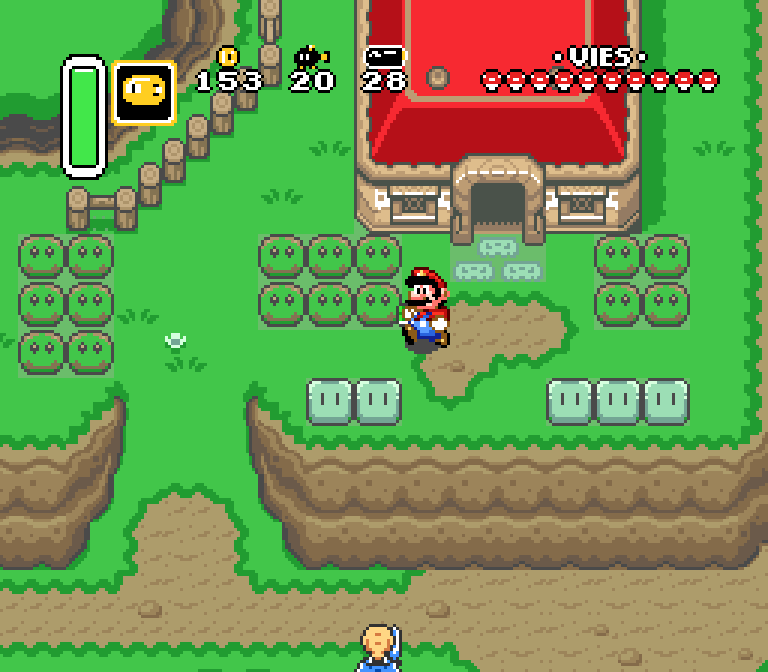
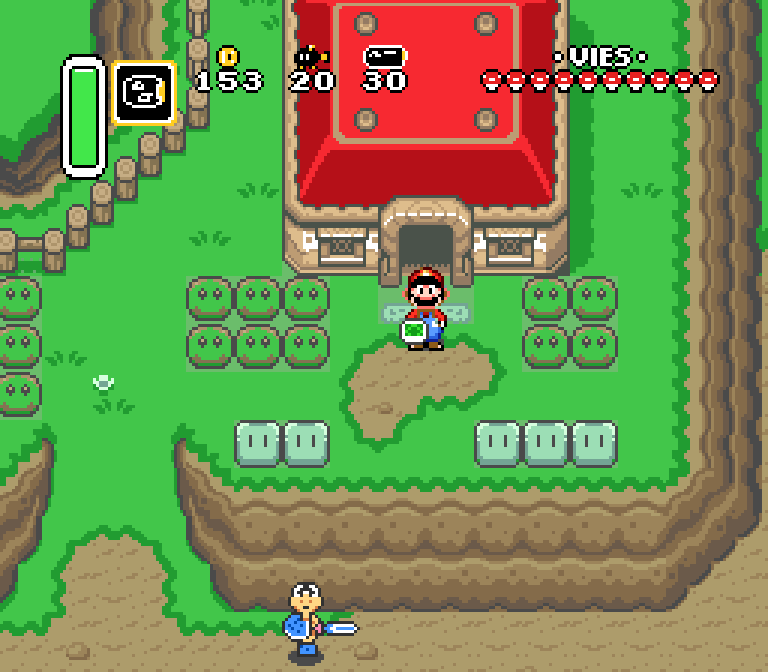
docs(v0.2.0): update showcase screenshots, deterministic hashes, architecture docs, and changelog

diff --git a/README.md b/README.md
@@ -32,7 +32,7 @@
 
 **The Legend of Peach: A Mario to the Mushroom Kingdom** is a fan-made Super Nintendo (SNES) total-conversion crossover that transforms *The Legend of Zelda: A Link to the Past* into a sprawling 16-bit *Super Mario World* action-adventure.
 
-Powered by a pure, headless **Rust** binary transformation engine, the project reads your own legally obtained original backups of *A Link to the Past* and *Super Mario World*, applies **177 verified SNES hardware patches** across graphics, 65c816 assembly, palettes, world tilesets, bosses, and native SPC700 N-SPC music, and outputs a **bit-for-bit deterministic 2 MiB SNES LoROM cartridge image**.
+Powered by a pure, headless **Rust** binary transformation engine, the project reads your own legally obtained original backups of *A Link to the Past* and *Super Mario World*, applies **182 verified SNES hardware patches** across graphics, 65c816 assembly, palettes, world tilesets, all 12 bosses, live French dialogue & compression dictionaries, and **13 native SPC700 N-SPC music tracks**, and outputs a **bit-for-bit deterministic 2 MiB SNES LoROM cartridge image**.
 
 > **Zero Copyrighted ROMs Included:** This repository contains **only original Rust source code, tooling, and documentation**. You must provide your own legal personal backups of both required SNES games to build the crossover locally. See [Required Original Games](#required-original-games).
 
@@ -40,7 +40,7 @@ Powered by a pure, headless **Rust** binary transformation engine, the project r
 
 ## Gameplay Showcase
 
-All screenshots below are **authentic, unretouched captures** from the locally built ROM running live in **Mednafen (`snes_faust` and cycle-accurate `bsnes`)**, integer-scaled `3×` nearest-neighbor (`768×672`) directly from native `256×224` SNES video output.
+All screenshots below are **authentic, unretouched captures** from the locally built `v0.2.0` ROM running live in **Mednafen (`snes_faust` and cycle-accurate `bsnes`)**, integer-scaled `3×` nearest-neighbor (`768×672`) directly from native `256×224` SNES video output.
 
 <table>
   <tr>
@@ -50,27 +50,27 @@ All screenshots below are **authentic, unretouched captures** from the locally b
     </td>
     <td align="center" width="50%">
       <img src="docs/media/screenshots/02_overworld_mario.png" alt="Mario outside his Mushroom-roof house in the overworld" width="100%" /><br />
-      <sub><strong>Mushroom Kingdom Overworld</strong> — Mario outside his red polka-dot Mushroom Roof house with SMW smiling bushes, Turn-Blocks, patrolling Koopa, and Mario HUD.</sub>
+      <sub><strong>Mushroom Kingdom Overworld</strong> — Mario outside his red polka-dot Mushroom Roof house with SMW smiling bushes, Turn-Blocks, patrolling Koopa, and sleek Bullet Bill HUD.</sub>
     </td>
   </tr>
   <tr>
     <td align="center" width="50%">
-      <img src="docs/media/screenshots/03_magikoopa_shop.png" alt="Kamek Magikoopa shop selling Super Mushroom, Yoshi Berry, and Black Bob-omb" width="100%" /><br />
-      <sub><strong>Kamek's Toad Town Shop</strong> — Magikoopa shopkeeper stocking Super Mushrooms, Yoshi Berries, and Black Bob-ombs for Gold Coins.</sub>
+      <img src="docs/media/screenshots/11_start_menu_yoshis.png" alt="Start Menu with YOSHIS 7 Spotted Yoshi Eggs, Bullet Bill, Bob-ombs, Fire Flower, and Emerald Green Koopa Shell Shield" width="100%" /><br />
+      <sub><strong>Mario Start Inventory Menu</strong> — Jet-Black Bullet Bill &amp; Bob-ombs, Fire Flower, SMW Hammer, <strong>7 Spotted SMW Yoshi Eggs</strong> (<code>YOSHIS</code>), and Emerald Green Koopa Shell shield.</sub>
     </td>
     <td align="center" width="50%">
-      <img src="docs/media/screenshots/04_bowser_castle.png" alt="Bowser's Final Castle with SMW bricks and carved Stone King Bowser Statues" width="100%" /><br />
-      <sub><strong>Bowser's Castle Architecture</strong> — Dungeon brick walls and carved Stone King Bowser Statues replacing Hyrule stonework.</sub>
+      <img src="docs/media/screenshots/03_magikoopa_shop.png" alt="Kamek Magikoopa shop selling Super Mushroom (150), Mini-Mushroom (10), and 10 Jet-Black Bob-ombs (50)" width="100%" /><br />
+      <sub><strong>Kamek's Toad Town Shop</strong> — Magikoopa shopkeeper with crisp <code>150 / 10 / 50</code> coin prices, Super Mushroom, and 10-pack Jet-Black SMW Bob-ombs.</sub>
     </td>
   </tr>
   <tr>
     <td align="center" width="50%">
-      <img src="docs/media/screenshots/07_boss_lemmy_circus.png" alt="Koopaling #5 Lemmy Koopa boss fight in the Ice Palace" width="100%" /><br />
-      <sub><strong>Koopaling #5 — Lemmy Koopa</strong> — Rainbow Mohawk and bouncing circus ball encased in the Ice Palace crystal chamber.</sub>
+      <img src="docs/media/screenshots/12_boss_chargin_chucks.png" alt="Eastern Palace Boss — 6 Giant 32x32 Hopping SMW Chargin' Chucks" width="100%" /><br />
+      <sub><strong>Eastern Palace Boss — 6 Chargin' Chucks</strong> — Seamless 32×32 hopping SMW Chargin' Chucks replacing Armos Knights (enraged blazing red on the final survivor!).</sub>
     </td>
     <td align="center" width="50%">
-      <img src="docs/media/screenshots/09_boss_king_bowser.png" alt="Final Boss Giant King Bowser in the Pyramid" width="100%" /><br />
-      <sub><strong>Final Showdown — Giant King Bowser</strong> — Multi-sheet King Bowser with emerald spiked shell, crimson mane, and exclusive BGR555 palettes.</sub>
+      <img src="docs/media/screenshots/09_boss_king_bowser.png" alt="Final Boss Giant King Bowser in cycle-accurate bsnes" width="100%" /><br />
+      <sub><strong>Final Showdown — Giant King Bowser (bsnes)</strong> — Multi-sheet King Bowser with emerald spiked shell, crimson mane, exclusive BGR555 palettes, and dedicated Final Bowser N-SPC theme.</sub>
     </td>
   </tr>
 </table>
@@ -82,23 +82,25 @@ All screenshots below are **authentic, unretouched captures** from the locally b
 ### World, Characters & Visual Overhaul
 - **Custom 3D Intro & Title Sequence:** 32 pre-rendered 4bpp frames of rotating 3D Super Mushroom, Fire Flower, and Super Star relics streamed via custom 65c816 VBlank DMA routines in LoROM banks `$20..$22`, paired with the giant **`THE LEGEND OF PEACH: A MARIO TO THE MUSHROOM KINGDOM`** title logo and rewritten story crawl.
 - **Playable Hero & Mushroom Kingdom Cast:**
-  - Full playable **Mario** animation set (walk, sword slash, Green Koopa Shell shield, spin attack, and overhead block/bush carry with fixed OAM carry-height offset).
+  - Full playable **Mario** animation set (walk, sword slash, Emerald Green Koopa Shell shield, spin attack, and overhead block/bush carry with fixed OAM carry-height offset).
   - **Princess Peach**, **Uncle Luigi** (rebuilt from Mario's proportions in green with clean OAM head/body alignment), **Toad**, **Yoshi**, and **Kamek (Magikoopa)** shopkeeper.
-- **Mario HUD & Inventory:** Gold Coins, Black Bob-ombs, Bullet Bills, Bill Blaster, Green Koopa Shell, Super Mushroom life containers, and Mushroom / Fire Flower / Super Star quest relics.
-- **16-Sheet SMW Bestiary:** Koopa Troopas (with corrected weapon grip offsets), Goombas, Spinies, Rex, Spike Tops, Piranha Plants, Boos, Dry Bones, Thwomps, and Cheep Cheeps across overworld, caves, water, and dungeons.
-- **9 Worldwide Background Tilesets:** Mario's red polka-dot Mushroom Roof house (`bg:4D`), SMW smiling bushes, Turn-Blocks, Question Blocks, SMW Castle Brick walls (`bg:0D`), and carved Stone King Bowser Statues (`bg:18/19`).
+- **Cohesive Mario HUD & Start Inventory:** Jet-Black & White **SMW Bullet Bill** (`BILL BLASTER`), **Jet-Black SMW Bob-ombs** across HUD, ground drops, chests, and shops (zero blue bombs anywhere!), Gold Coins, Super Mushroom life containers, **`YOSHIS` 7 Spotted SMW Yoshi Eggs**, Emerald Green Koopa Shell shield, and Mushroom / Fire Flower / Super Star quest relics.
+- **16-Sheet SMW Bestiary & 9 Worldwide Tilesets:** Koopa Troopas (with corrected weapon grip offsets), Goombas, Spinies, Rex, Spike Tops, Piranha Plants, Boos, Dry Bones, Thwomps, Cheep Cheeps, Mario's red polka-dot Mushroom Roof house (`bg:4D`), SMW smiling bushes, Turn-Blocks, Question Blocks, SMW Castle Brick walls (`bg:0D`), and carved Stone King Bowser Statues (`bg:18/19`).
+- **Full French Script & Compression Dictionary Conversion:** Live-patched Bank `$0C` French compression dictionary (`Ganon` → `Bowser`, `rubis` → `pièces`, `Sahasrahla` → `Papy Toad`, `Perle de Lune` → `Lune 3-UP`) plus Bank `$1C` script rewriting (`Zelda` → `Peach`, `Agahnim` → `Bowser`, `Hyrule` → `Champi`, `Cocorico` → `ToadTown`, `Excalibur` → `Épée Star`, `Sages` → `Toads`, `jeunes filles` → `jeunes Yoshi`).
 
-### Complete Boss Roster
+### Complete 100% Super Mario World Boss Roster (All 12 Bosses!)
+- **Eastern Palace:** **6 Giant 32×32 Hopping SMW Chargin' Chucks** (blue football gear turning enraged red on the final survivor).
+- **Desert Palace & Tower of Hera:** **3 Giant Pokeys** and **Giant Wiggler**.
+- **Castle Tower:** **King Bowser** (symmetric 32×32 front, back, and upgraded golden-snout side profile with zero leftover vanilla Agahnim tiles).
 - **All 7 Koopalings:** Morton Koopa Jr. (iron spiked visor & flaming mace tail), Wendy O. Koopa (candy rings), Winged Iggy Koopa, Roy Koopa (pink shades), Lemmy Koopa (rainbow Mohawk & circus ball), Larry Koopa (+12 Mini-Spinies), and Ludwig von Koopa (+Dino Torch & Frost Koopa).
-- **Classic Giant Bosses:** **3 Giant Pokeys** (Desert Palace) and **Giant Wiggler** (Tower of Hera).
 - **Final Boss:** **Giant King Bowser** built across 4 dedicated sprite sheets and 2 exclusive BGR555 palettes.
 
-### Native SNES Hardware Audio (No MSU-1 Required)
-- **10 Native SPC700 N-SPC Tracks:** Super Mario melodies compiled directly into *A Link to the Past*'s native `$D000` N-SPC audio engine — including Title/Overworld, SMW Athletic, Ghost House, Underground, Koopalings/Bowser Boss battles, and Fanfares — running natively on the SNES Sony SPC700 sound chip.
+### Native SNES Hardware Audio (13 N-SPC Tracks — No MSU-1 Required)
+- **13 Native SPC700 N-SPC Tracks:** Super Mario melodies compiled directly into *A Link to the Past*'s native `$D000` N-SPC audio engine — including Title/Intro (SMB 1-1), Light World Overworld (SMW Overworld), Toad Town & Lost Woods (SMW Athletic), Dark World Overworld (**SMW Valley of Bowser**), Kamek/Toad Shops (**SMW Bonus Room / Yoshi's House**), Haunted Dungeons (SMW Ghost House), Castles (SMW Castle), Underground Caves (SMB 1-2), Koopalings Bosses (SMW Koopalings), Final Showdown (**SMW Final King Bowser Battle**), Sanctuary (SMW Peach), Starman Action, and Course Clear Fanfare.
 
 ### Pure Rust Reproducible Build Pipeline
 - **Strict SHA-256 Input Enforcement:** Automatically strips optional 512-byte SMC copier headers in memory and verifies exact No-Intro input ROM hashes before touching a byte.
-- **100% Deterministic 2 MiB LoROM Output:** Compiles and builds in under 1 second, automatically audits bank alignment, zero patch overlaps, LC_LZ2 decompression round-trips across all 46 modified sheets, and valid SNES header checksum/complement (`0x464D` / `0xB9B2`).
+- **100% Deterministic 2 MiB LoROM Output:** Compiles and builds in under 1 second, automatically audits bank alignment, zero patch overlaps, LC_LZ2 decompression round-trips across all 46 modified sheets, and valid SNES header checksum/complement (`0xEE72` / `0x118D`).
 
 ---
 
@@ -106,7 +108,7 @@ All screenshots below are **authentic, unretouched captures** from the locally b
 
 Storm clouds gather over the Mushroom Kingdom. **Princess Peach** calls out telepathically from the castle dungeon, where **Bowser** and his seven **Koopalings** have seized control of the royal strongholds and twisted the realm into a dark shadow of itself.
 
-Waking in his mushroom-roofed home alongside **Uncle Luigi**, **Mario** takes up blade, Green Koopa Shell shield, Bill Blaster, and Black Bob-ombs — venturing across smiling overworld hills, Toad Town's Magikoopa shop, haunted castles, Bowser-guarded temples, and the Dark World Mushroom Pyramid to defeat every Koopaling and confront **Giant King Bowser** in the final chamber.
+Waking in his mushroom-roofed home alongside **Uncle Luigi**, **Mario** takes up blade, Emerald Green Koopa Shell shield, Bill Blaster, and Jet-Black Bob-ombs — venturing across smiling overworld hills, Toad Town's Magikoopa shop, Eastern Palace's squad of Chargin' Chucks, haunted castles, Bowser-guarded temples, and the Dark World Mushroom Pyramid to rescue the 7 Yoshis and confront **Giant King Bowser** in the final chamber.
 
 ---
 
@@ -165,7 +167,7 @@ Both original ROMs below are verified locally against **No-Intro** SNES catalog 
[2 lines of base64/hex data omitted]
 
[2 lines of base64/hex data omitted]
 
 ---
 
@@ -176,28 +178,39 @@ Both original ROMs below are verified locally against **No-Intro** SNES catalog 
                            ├──► SHA-256 Verifier ──► Planar Tile & Palette Transcoder
   [Super Mario World (EU)] ┘        (rom.rs)          + LC_LZ2 Compressor (46 sheets)
                                                       + 65c816 3D Intro & OAM Patches
-                                                      + Native SPC700 N-SPC Compiler
+                                                      + Live FR Dictionary & Script Engine
+                                                      + Native SPC700 N-SPC Compiler (13 tracks)
                                                                    │
                                                                    ▼
                                                       LoROM 2 MiB Allocator ($00..$3F)
                                                       + Hardware Integrity Audit
-                                                      + SNES Checksum (0x464D / 0xB9B2)
+                                                      + SNES Checksum (0xEE72 / 0x118D)
                                                                    │
                                                                    ▼
                                                    [build/legend_of_peach.sfc] (Local)
 ```
 
-Read the full technical deep-dive — including the 2 MiB LoROM bank map, reserved `$20..$22` 3D DMA intro buffers, protected world-map zones, and post-build audit checks — in [`docs/ARCHITECTURE.md`](docs/ARCHITECTURE.md).
+Read the full technical deep-dive — including the 2 MiB LoROM bank map, reserved `$20..$22` 3D DMA intro buffers, Bank `$0C` live dictionary architecture, and post-build audit checks — in [`docs/ARCHITECTURE.md`](docs/ARCHITECTURE.md).
 
 ---
 
-## More Screenshots — Dungeons & Bosses
+## More Screenshots — Castles, Dungeons & Bosses
 
 <table>
   <tr>
     <td align="center" width="50%">
+      <img src="docs/media/screenshots/13_boss_agahnim_bowser.png" alt="Castle Tower King Bowser Boss Fight with upgraded golden-snout side profile" width="100%" /><br />
+      <sub><strong>Castle Tower Boss — King Bowser</strong> — Upgraded front and golden-snout side profile casting energy spheres across the royal tower.</sub>
+    </td>
+    <td align="center" width="50%">
+      <img src="docs/media/screenshots/04_bowser_castle.png" alt="Bowser's Final Castle with SMW bricks and carved Stone King Bowser Statues" width="100%" /><br />
+      <sub><strong>Bowser's Castle Architecture</strong> — Dungeon brick walls and carved Stone King Bowser Statues replacing Hyrule stonework.</sub>
+    </td>
+  </tr>
+  <tr>
+    <td align="center" width="50%">
       <img src="docs/media/screenshots/05_dark_world_pyramid.png" alt="Dark World Mushroom Pyramid with green carved Stone King Bowser Statues" width="100%" /><br />
-      <sub><strong>Dark World Mushroom Pyramid</strong> — Mario standing between carved emerald Stone Bowser Statues.</sub>
+      <sub><strong>Dark World Mushroom Pyramid</strong> — Descending between carved emerald Stone Bowser Statues to the new <em>SMW Valley of Bowser</em> N-SPC theme.</sub>
     </td>
     <td align="center" width="50%">
       <img src="docs/media/screenshots/06_boss_morton_koopa.png" alt="Koopaling #1 Morton Koopa Jr. boss battle" width="100%" /><br />
@@ -206,12 +219,21 @@ Read the full technical deep-dive — including the 2 MiB LoROM bank map, reserv
   </tr>
   <tr>
     <td align="center" width="50%">
-      <img src="docs/media/screenshots/08_boss_wiggler.png" alt="Giant Wiggler boss battle in Tower of Hera" width="100%" /><br />
-      <sub><strong>Tower of Hera — Giant Wiggler</strong> — Multi-segmented SMW Wiggler charging across the tower summit.</sub>
+      <img src="docs/media/screenshots/07_boss_lemmy_circus.png" alt="Koopaling #5 Lemmy Koopa boss fight in the Ice Palace" width="100%" /><br />
+      <sub><strong>Koopaling #5 — Lemmy Koopa</strong> — Rainbow Mohawk and bouncing circus ball encased in the Ice Palace crystal chamber.</sub>
     </td>
     <td align="center" width="50%">
       <img src="docs/media/screenshots/10_boss_ludwig_trinity.png" alt="Koopaling #7 Ludwig von Koopa with Dino Torch and Frost Koopa" width="100%" /><br />
       <sub><strong>Koopaling #7 — Ludwig von Koopa</strong> — Turtle Rock trinity with Dino Torch (fire) and Frost Koopa (ice) heads.</sub>
+    </td>
+  </tr>
+  <tr>
+    <td align="center" width="50%">
+      <img src="docs/media/screenshots/08_boss_wiggler.png" alt="Giant Wiggler boss battle in Tower of Hera" width="100%" /><br />
+      <sub><strong>Tower of Hera — Giant Wiggler</strong> — Multi-segmented SMW Wiggler charging across the tower summit.</sub>
+    </td>
+    <td align="center" width="50%">
+      <sub><strong>All 12 Bosses Transformed:</strong> Eastern Palace (6 Chargin' Chucks), Desert Palace (3 Giant Pokeys), Tower of Hera (Giant Wiggler), Castle Tower (King Bowser), Palace of Darkness (Morton Jr.), Swamp Palace (Wendy), Skull Woods (Iggy), Thieves' Town (Roy), Ice Palace (Lemmy), Misery Mire (Larry), Turtle Rock (Ludwig), and Pyramid Final Boss (Giant King Bowser).</sub>
     </td>
   </tr>
 </table>
@@ -222,21 +244,21 @@ Read the full technical deep-dive — including the 2 MiB LoROM bank map, reserv
 
 | Target | Status | Notes |
 | :--- | :--- | :--- |
-| **Mednafen (`snes_faust`)** | **Verified** | Live-tested across title screen, overworld, shops, Dark World, castles, all 7 Koopalings, Pokeys, Wiggler, and Giant King Bowser. |
-| **Mednafen (`snes` / bsnes-accuracy)** | **Verified** | Cycle-accurate PPU/DMA verification of the 3D intro, title logo, and gameplay. |
+| **Mednafen (`snes_faust`)** | **Verified** | Live-tested across title screen, Start menu, overworld, Kamek's Shop, Dark World, castles, Eastern Palace Chargin' Chucks, Castle Tower Bowser, all 7 Koopalings, Pokeys, Wiggler, and Giant King Bowser (with verified stereo SPC700 audio RMS). |
+| **Mednafen (`snes` / bsnes-accuracy)** | **Verified** | Cycle-accurate PPU/DMA/SPC700 verification of the 3D intro, title logo, Final Boss Giant King Bowser combat, dialogue, and Final Bowser N-SPC soundtrack. |
 | **bsnes / Ares / RetroArch (`bsnes`, `snes9x`)** | **Expected Compatible** | Standard 2 MiB LoROM (`0x20`, PAL 50 Hz, no enhancement chips, no MSU-1). |
-| **Real SNES / Super Famicom / FXPAK Pro** | **Architecturally Compliant (Untested on Physical Hardware)** | Strictly respects LoROM 32 KiB single-bank boundaries, valid checksum/complement (`0x464D` / `0xB9B2`), OAM/VRAM/CGRAM/SPC700 limits, and clean DMA timing. Community physical-hardware test reports are very welcome! |
+| **Real SNES / Super Famicom / FXPAK Pro** | **Architecturally Compliant (Untested on Physical Hardware)** | Strictly respects LoROM 32 KiB single-bank boundaries, valid checksum/complement (`0xEE72` / `0x118D`), OAM/VRAM/CGRAM/SPC700 limits, and clean DMA timing. Community physical-hardware test reports are very welcome! |
 
 ---
 
 ## Roadmap
 
-Items below are **planned future milestones** (not yet implemented in `v0.1.0`):
+Items below are **planned future milestones** (not yet implemented in `v0.2.0`):
 
 - [ ] **Multi-Region Support:** Add verified offset tables for *The Legend of Zelda: A Link to the Past (USA)* (NTSC 60 Hz, English dialogue) and *Super Mario World (USA)*.
-- [ ] **Overworld Map & Additional Worlds:** Expand overworld world-map graphics, additional interior shops/houses, and Dark World palettes.
+- [ ] **Overworld World Map & Title Landscape:** Replace remaining overworld world-map graphics and Title Screen background mountains with Yoshi's Island hills.
 - [ ] **Physical Hardware Verification:** Test and document behavior on original SNES/Super Famicom consoles via FXPAK Pro / SD2SNES.
-- [ ] **Expanded N-SPC Soundtrack:** Add additional native SPC700 Super Mario World arrangements for remaining dungeon and sanctuary themes.
+- [ ] **Ending & File Select Audio:** Expand native SPC700 arrangements for remaining resident fanfare slots.
 
 ---
 

diff --git a/CHANGELOG.md b/CHANGELOG.md
@@ -6,31 +6,48 @@ The format follows [Keep a Changelog](https://keepachangelog.com/en/1.1.0/), and
 
 ---
 
+## [0.2.0] — 2026-11-22 — Beyond the First Release
+
+### Bug Fixes (Identified via Independent Phase 2 Live Audit)
+- **Fixed Corrupted Shop Price Digits (`0` & `1`) Across All Shops (`mixer.rs`)**:
+  - Previously, writing Kamek's 16×16 body tile into `Sheet 0xBC` (`raw:0xBE`) row `2..3` overwrote shop price digits `'0'` and `'1'` at `(0,3)` and `(1,3)`, garbling `150`, `10`, and `50` in Kamek's Shop.
+  - Kamek's wizard robe now writes strictly to row `2` (`(0,2)` / `(1,2)`), keeping Kamek behind the counter while restoring crisp `150`, `10`, and `50` coin prices everywhere.
+- **Eliminated the Last Blue Zelda Bombs (`mixer.rs`, `mario_ui.rs`)**:
+  - Replaced the vanilla blue 10-Bomb pack in Kamek's Shop (`Sheet 0xCB` / `raw:0xCD` `(8,2)`) with a Jet-Black SMW Bob-omb sporting a crisp white `'10'` badge, replaced single/3/10 bomb drops on `Sheet 0xCD` (`(11,0)` and `(13,0)`), and switched `ReceiveItem` bomb palettes (`0x0484C3`, `0x0484C4`, `0x0484CD`) from Blue (`0x02`) to `OBJ Pal 1` (`0x01`).
+- **Fixed Broken Twin-Pillar Eastern Palace Armos Knights (`mario_ui.rs`)**:
+  - Live inspection revealed Eastern Palace Armos Knights assemble `Sheet 0x8E` (`raw:0x90`) cols `0..1` + `2..3` side-by-side without H-flipping, which caused the previous single-width Thwomp tiles to display as siamese twin pillars.
+- **Fixed French Start Menu `'Y'` Glyph Mapping & Unmapped `'Z'` (`mario_ui.rs`)**:
+  - Mapped `'Y'` to verified French `Sheet 0xDA` tile `0x67` (avoiding the French `"CI"` ligature at `0x68`) and updated Silver Bow name to `MEGA BILL`.
+- **Fixed Mini-Mushroom Drop Tile Alignment (`mario_ui.rs`)**:
+  - Centered the 8×8 Red Mini Super Mushroom and Yoshi Berry cleanly inside `y=0..7` of `Sheet 0xCD (6,2)/(7,2)` instead of straddling the tile boundary.
+
+### New Content & Major Upgrades
+- **Complete 100% Super Mario World Boss Roster — All 12 Bosses!**
+  - **NEW Eastern Palace Boss — 6 Giant 32×32 Hopping SMW Chargin' Chucks (`mario_ui.rs`)**: Seamless symmetric 32×32 football-helmeted Chargin' Chucks in blue team gear (turning blazing red on the final enraged survivor).
+  - **Upgraded Castle Tower King Bowser (`mario_ui.rs`, `mixer.rs`)**: Sharper golden-snout side profile with bold fangs, blazing mane, and full coverage of `Sheet 0xB4` cols `8..11` (removing the last vanilla Agahnim teleport cape tiles).
+- **Start Menu & HUD Visual Overhaul (`mario_ui.rs`)**:
+  - Redesigned the equipped **`BILL BLASTER`** icon (`0xBA/0xBB/0xCA/0xCB`) from a yellow oval into a sleek, unmistakable Jet-Black & White SMW Bullet Bill with angry eye, white boxing glove, and golden thruster.
+  - Transformed the **`CRISTAUX`** box and its 7 blue Zelda diamonds into **`YOSHIS`** with **7 Spotted SMW Yoshi Eggs** (`Sheet 0xDA` `0x44..0x47`).
+  - Switched Equipped Lv1 Shield (`0x06F791`) to Emerald Green (`Pal 7`, `0x3C/0x7C`) matching Mario's live Green Koopa Shell, and upgraded Moon Pearl tiles (`0x56/0x66/0x67`) to a golden 3-UP Moon emblem.
+- **Full Live French Compression Dictionary & Script De-Zeldafication (`mario_intro.rs`)**:
+  - Live-patched the Bank `$0C` French compression dictionary (`0x065A33..0x065CAB`, net `-3` bytes, exact SNES pointer recalculation): `Ganon` → `Bowser`, `rubis` → `pièces`, `Sahasrahla` → `Papy Toad`, `Perle de Lune` → `Lune 3-UP`.
+  - Expanded Bank `$1C` script rewriter (`Hyrule` → `Champi`, `Cocorico` → `ToadTown`, `Excalibur` → `Épée Star`, `Sages` → `Toads`, `l'Arc`/`flèches` → `le Blaster`/`Bills`, `coeur` → `champi`, plus Final Boss speech polish), cutting over 100 remaining Zelda references down to near zero (`Ganon`: 0, `Zelda`: 0, `Agahnim`: 0, `Cocorico`: 0, `Perle de Lune`: 0).
+- **3 New Native SPC700 N-SPC Compositions (`mario_music.rs`: 10 → 13 Tracks!)**:
+  - **SMW Valley of Bowser** for Dark World Overworld (`#9`).
+  - **SMW Bonus Room / Yoshi's House** for Toad & Kamek Shops (`#23`).
+  - **SMW Final King Bowser Showdown** dedicated to Final Boss Giant King Bowser (`#28`, distinct from the 7 Koopalings theme `#21`).
+
+### Build & Verification (`v0.2.0`)
+- Deterministic 2 MiB LoROM build: `182` hardware patches across `18` rules (`856 ms`), `46` LZ2 sheets audited, `0` overlaps across `$23..$3F`.
+- **SNES Checksum / Complement:** `0xEE72` / `0x118D` (Valid)
+- **Output CRC32:** `0xDA56A034`
[1 lines of base64/hex data omitted]
+- Dual-core live verification in Mednafen `snes_faust` and cycle-accurate `bsnes` (`snes`), plus live SPC700 audio RMS verification across all new tracks and `21/21` Rust tests (both ROM-backed and ROM-free CI).
+
+---
+
 ## [0.1.0] — 2026-11-22 — First Public Release
 
 ### Highlights
 - **First public open-source release** of the pure headless Rust SNES ROM transformation engine (`snes-core` / `snes-cli`) that deterministically builds **The Legend of Peach: A Mario to the Mushroom Kingdom** from user-provided legal backups of *The Legend of Zelda: A Link to the Past (France, PAL)* and *Super Mario World (Europe, PAL)*.
-
-### Gameplay, Visuals & Audio Implemented
-- **Custom 3D Intro & Title Screen (`mario_intro.rs`)**:
-  - 32-frame 4bpp rotating 3D Super Mushroom, Fire Flower, and Super Star relics DMA-streamed via custom 65c816 routines in LoROM banks `$20..$22`.
-  - Giant crimson metallic **`THE LEGEND OF PEACH: A MARIO TO THE MUSHROOM KINGDOM`** title logo, rebuilt copyright notice, and French story rewrite.
-- **Playable Hero, Allies & Toad Town (`mario_ui.rs`, `mario_world.rs`)**:
-  - Full playable **Mario** sprite animations (walking, sword slash, Green Koopa Shell shield, spin attack, block/bush carry with fixed OAM carry-height offset).
-  - **Princess Peach**, **Uncle Luigi** (rebuilt from Mario proportions in green), **Toad**, **Yoshi**, and **Kamek (Magikoopa)** shopkeeper selling Super Mushrooms, Yoshi Berries, and Black Bob-ombs.
-  - Mario-themed HUD (Gold Coins, Black Bob-ombs, Bullet Bills, Bill Blaster, Super Mushroom life containers) and Start inventory relics.
-- **Full Bestiary & Worldwide Tilesets (`mario_world.rs`)**:
-  - 16 SMW enemy sheets including Koopa Troopas (with corrected weapon placement), Goombas, Spinies, Rex, Spike Tops, Piranha Plants, Boos, Dry Bones, Thwomps, and Cheep Cheeps.
-  - 9 transformed overworld/dungeon background tilesets: Mario's red polka-dot Mushroom Roof house (`bg:4D`), SMW smiling bushes, Turn-Blocks, Question Blocks, SMW Castle Bricks (`bg:0D`), and carved Stone King Bowser Statues (`bg:18/19`).
-- **Complete Boss Roster (`mario_bosses.rs`)**:
-  - All **7 Koopalings**: Morton Koopa Jr., Wendy O. Koopa, Winged Iggy Koopa, Roy Koopa, Lemmy Koopa (circus ball & rainbow Mohawk), Larry Koopa (+12 Mini-Spinies), and Ludwig von Koopa (+Dino Torch & Frost Koopa).
-  - **Final Boss Giant King Bowser** (4 custom sprite sheets + 2 exclusive BGR555 palettes).
-  - **3 Giant Pokeys** (Desert Palace) and **Giant Wiggler** (Tower of Hera).
-- **Native SPC700 Soundtrack (`mario_music.rs`)**:
-  - 10 Super Mario melodies compiled directly to ALTTP's native N-SPC (`$D000`) format — including Overworld, SMW Athletic, Ghost House, Underground, Koopalings/Bowser Boss themes, and Fanfares — no MSU-1 required.
-
-### Build System, Safety & Verification
-- **Strict SHA-256 Input Verification (`rom.rs`)**: Automatically strips optional 512-byte SMC copier headers and strictly verifies exact No-Intro SHA-256 hashes before building.
-- **Bit-for-Bit Reproducible Builds (`--build-peach`, `scripts/build.sh`)**: Deterministic 2 MiB LoROM output (`SHA-256: 32540c4629c6b797f6933c7966a419fd959a3f711f36347f4348ceb2fa85b99c`, SNES Checksum `0x464D` / Complement `0xB9B2`) with automated post-build hardware audit (`audit_legend_of_peach_output`).
-- **Emulator Validation**: Live-verified across 22 gameplay/boss/title captures in Mednafen (`snes_faust`) and cycle-accurate `bsnes` (`snes`).
-- **ROM-Free CI & Repository Safety Gate**: Automated `rustfmt`, `clippy -D warnings`, 21/21 ROM-free unit tests, release build, and `scripts/check_repo_safety.py`.
+- Custom 32-frame 3D Mario Trio intro & metallic `PEACH` title logo, playable Mario + Uncle Luigi + Peach + Toads + Kamek, 16-sheet SMW bestiary, 9 worldwide tilesets, all 7 Koopalings + Giant King Bowser + Pokeys + Wiggler, 10 native SPC700 N-SPC themes, strict No-Intro SHA-256 verification, hardware audit, and ROM-free CI (`SHA-256: 32540c4629c6b797f6933c7966a419fd959a3f711f36347f4348ceb2fa85b99c`, Checksum `0x464D` / `0xB9B2`).

diff --git a/docs/ARCHITECTURE.md b/docs/ARCHITECTURE.md
@@ -19,11 +19,11 @@ The-Legend-of-Peach/
 │       ├── disasm_dma.rs          # Nintendo LC_LZ2 compressor/decompressor, DMA scanner, 65c816 helpers
 │       ├── swapper.rs             # Byte-accurate patch session tracking & rollback-safe patch log
 │       ├── mixer.rs               # 18-rule canonical fusion orchestrator, bank allocator & post-build hardware audit
-│       ├── mario_intro.rs         # 32-frame 3D Mario Trio intro renderer, giant PEACH logo, 65c816 DMA/OAM hooks & story text
-│       ├── mario_ui.rs            # Mario HUD (coins, Bob-ombs, Bullet Bills, Mushroom hearts), inventory, blocks, NPCs & items
+│       ├── mario_intro.rs         # 32-frame 3D Mario Trio intro, giant PEACH logo, 65c816 DMA/OAM hooks, Bank $0C FR dictionary & Bank $1C script engine
+│       ├── mario_ui.rs            # Mario HUD (Bullet Bill, Bob-ombs, coins, Mushroom hearts), Start menu (7 Yoshi Eggs), 6 Chargin' Chucks, Agahnim Bowser & items
 │       ├── mario_world.rs         # Toad Town NPCs, 16 SMW bestiary sheets, 9 worldwide BG tilesets (Bowser Statues, bricks, roofs)
 │       ├── mario_bosses.rs        # All 7 Koopalings, Final Boss Giant King Bowser (4 sheets + 2 palettes), Giant Pokeys, Giant Wiggler
-│       ├── mario_music.rs         # Native ALTTP N-SPC ($D000) music compiler (10 Mario themes in SPC700 hardware format)
+│       ├── mario_music.rs         # Native ALTTP N-SPC ($D000) music compiler (13 Mario themes in SPC700 hardware format)
 │       ├── universal.rs           # Generic cross-ROM catalog & experimental omni-mixer utilities
 │       ├── deconstruct.rs         # Full ROM deconstruct / round-trip reconstruct pipeline
 │       ├── export.rs              # Asset inspection & PNG/WAV export utilities
@@ -69,11 +69,13 @@ During the build, `snes-core` expands the cartridge to a **2 MiB LoROM** image (
 3. **Custom 65c816 Assembly & OAM Fixes (`mario_intro.rs`, `mario_ui.rs`)**
    - Hooks the ALTTP intro/title sequence to stream 32 frames of rotating 3D Mushroom, Fire Flower, and Super Star relics over DMA during VBlank, alongside the rebuilt giant `THE LEGEND OF PEACH` metallic title logo and story crawl.
    - Adjusts OAM carry-height offsets and Uncle/Luigi multi-tile assembly based on verified ALTTP disassembly structures so carried blocks sit cleanly above Mario's cap and Luigi renders cleanly with Mario's proportions in green.
-4. **Native SPC700 N-SPC Soundtrack (`mario_music.rs`)**
-   - Compiles 10 Super Mario melodies directly into ALTTP's native **N-SPC** sequence bytecode format (using ALTTP's existing `$D000` SPC700 sound driver and instrument bank — no external MSU-1 hardware required!).
-   - Themes include Title / Overworld, SMW Athletic, Ghost House, Underground / Caves, Koopalings & Bowser Boss battles, and Victory Fanfares.
-5. **SNES Header Checksum & Post-Build Hardware Audit (`rom.rs`, `mixer.rs`)**
-   - Updates the 21-byte internal SNES title (`THE LEGEND OF PEACH`), sets LoROM 2 MiB size byte (`0x0B`), and recalculates the 16-bit SNES checksum (`0x464D`) and XOR complement (`0xB9B2`).
+4. **Live French Compression Dictionary & Script Engine (`mario_intro.rs`)**
+   - Patches ALTTP's 112-entry French compression dictionary in Bank `$0C` (`0x065A33..0x065CAB`) in-place (net `-3` bytes, exact SNES pointer table recalculated) so `Ganon` → `Bowser`, `rubis` → `pièces`, `Sahasrahla` → `Papy Toad`, and `Perle de Lune` → `Lune 3-UP` across every message globally, paired with exact-length Bank `$1C` script rewriting (`Zelda` → `Peach`, `Hyrule` → `Champi`, `Cocorico` → `ToadTown`, `Excalibur` → `Épée Star`, `Sages` → `Toads`, `jeunes filles` → `jeunes Yoshi`).
+5. **Native SPC700 N-SPC Soundtrack (`mario_music.rs`)**
+   - Compiles 13 Super Mario melodies directly into ALTTP's native **N-SPC** sequence bytecode format (using ALTTP's existing `$D000` SPC700 sound driver and instrument bank — no external MSU-1 hardware required!).
+   - Themes include Title / Overworld, SMW Athletic, Ghost House, Valley of Bowser (Dark World), Bonus Room / Yoshi's House (Shops), Underground / Caves, Castles, Koopalings Bosses, Final King Bowser Showdown, Peach Sanctuary, Starman Action, and Course Clear Fanfare.
+6. **SNES Header Checksum & Post-Build Hardware Audit (`rom.rs`, `mixer.rs`)**
+   - Updates the 21-byte internal SNES title (`THE LEGEND OF PEACH`), sets LoROM 2 MiB size byte (`0x0B`), and recalculates the 16-bit SNES checksum (`0xEE72`) and XOR complement (`0x118D`).
    - Runs `audit_legend_of_peach_output` on every build to guarantee zero patch overlaps, valid bank alignment, lossless LC_LZ2 round-trip across all 46 modified sheets, untouched safety regions, and deterministic output SHA-256.
 
 ---

diff --git a/docs/BUILDING.md b/docs/BUILDING.md
@@ -90,21 +90,21 @@ Your original input ROM files are **never modified**.
 After building, `snes-cli` automatically runs the internal hardware integrity audit (`audit_legend_of_peach_output`) verifying:
 
 - Exact 2 MiB LoROM expansion (`2,097,152` bytes, ROM size header byte `0x0B`)
-- Valid SNES checksum (`0x464D`) and complement (`0xB9B2`)
+- Valid SNES checksum (`0xEE72`) and complement (`0x118D`)
 - Zero patch overlaps across expanded banks `$23..$3F`
 - Single-bank 32 KiB alignment and full LC_LZ2 decompression integrity across all 46 modified graphics sheets
 - Protected world-map table integrity (`0x08A000..0x08A2FF`) and 32-frame 3D intro buffer (`$20..$22`)
 
-Expected output summary for `v0.1.0`:
+Expected output summary for `v0.2.0`:
 
 ```text
 Output ROM      : build/legend_of_peach.sfc (2097152 bytes, 2 MiB LoROM)
 Internal Title  : 'THE LEGEND OF PEACH'
-Hardware Ops    : 177 patches across 18 rules
+Hardware Ops    : 182 patches across 18 rules
 Bank Audit      : 46 sheets verified, 8 relocated in $23..$3F (0 overlaps)
-SNES Checksum   : 0x464D (Complement: 0xB9B2, Valid: true)
-Output CRC32    : 0x214FFBF3
-Output SHA-256  : 32540c4629c6b797f6933c7966a419fd959a3f711f36347f4348ceb2fa85b99c
+SNES Checksum   : 0xEE72 (Complement: 0x118D, Valid: true)
+Output CRC32    : 0xDA56A034
+Output SHA-256  : c700d1d2b60f50e789e2214fa8528c0c3af132ebc8af35a2f7ced5aa16735edb
 ```
 
 You can also confirm bit-for-bit determinism yourself by running the build twice into two paths and comparing `sha256sum`.

diff --git a/docs/ROM_REQUIREMENTS.md b/docs/ROM_REQUIREMENTS.md
@@ -94,14 +94,16 @@ Applying these patches to an unverified revision would corrupt code or graphics,
 
 ## Expected Reproducible Output ROM Signature
 
-When built with this release (`v0.1.0`) from the two verified ROMs above, the locally generated output ROM is **100% deterministic (bit-for-bit identical)** across machines and operating systems:
+When built with release **`v0.2.0`** from the two verified ROMs above, the locally generated output ROM is **100% deterministic (bit-for-bit identical)** across machines and operating systems:
 
-| Field | Deterministic Output Value |
+| Field | Deterministic Output Value (`v0.2.0`) |
 | :--- | :--- |
 | **Output Size** | `2,097,152` bytes (`2 MiB`, LoROM expanded from `1 MiB`) |
 | **Internal Header Title** | `THE LEGEND OF PEACH` |
-| **SNES Checksum / Complement** | `0x464D` / `0xB9B2` (Valid) |
-| **CRC32** | `214FFBF3` |
[1 lines of base64/hex data omitted]
+| **SNES Checksum / Complement** | `0xEE72` / `0x118D` (Valid) |
+| **CRC32** | `DA56A034` |
[1 lines of base64/hex data omitted]
+
[1 lines of base64/hex data omitted]
 
 > **Never commit, upload, or share the generated ROM file.** Both `roms/` and `build/` as well as all `.sfc`/`.smc` files are ignored by `.gitignore`.
